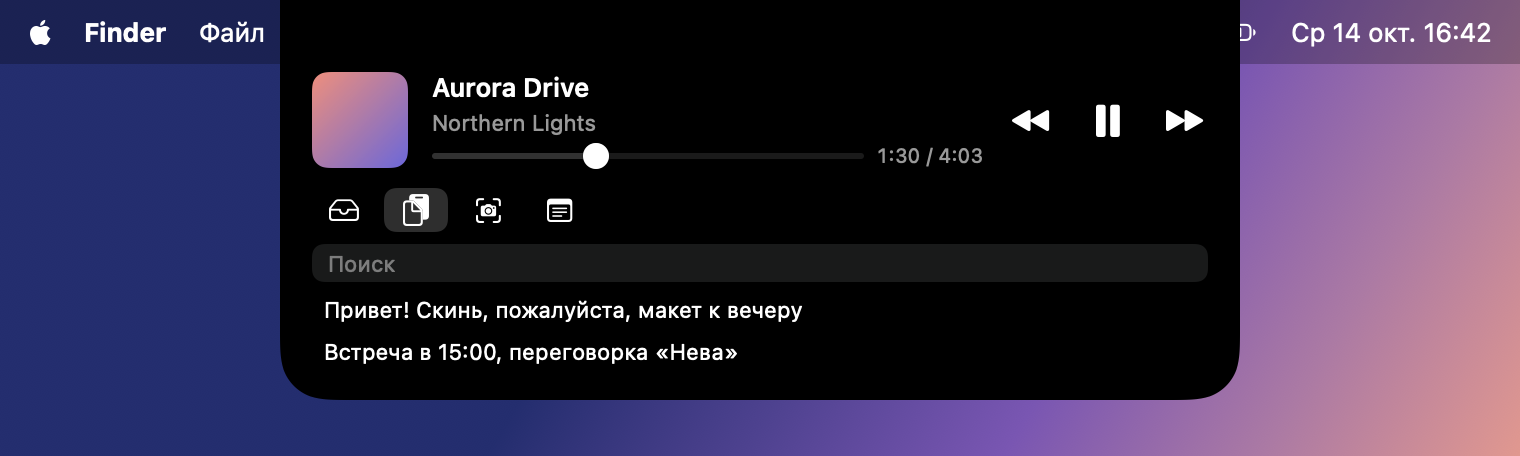
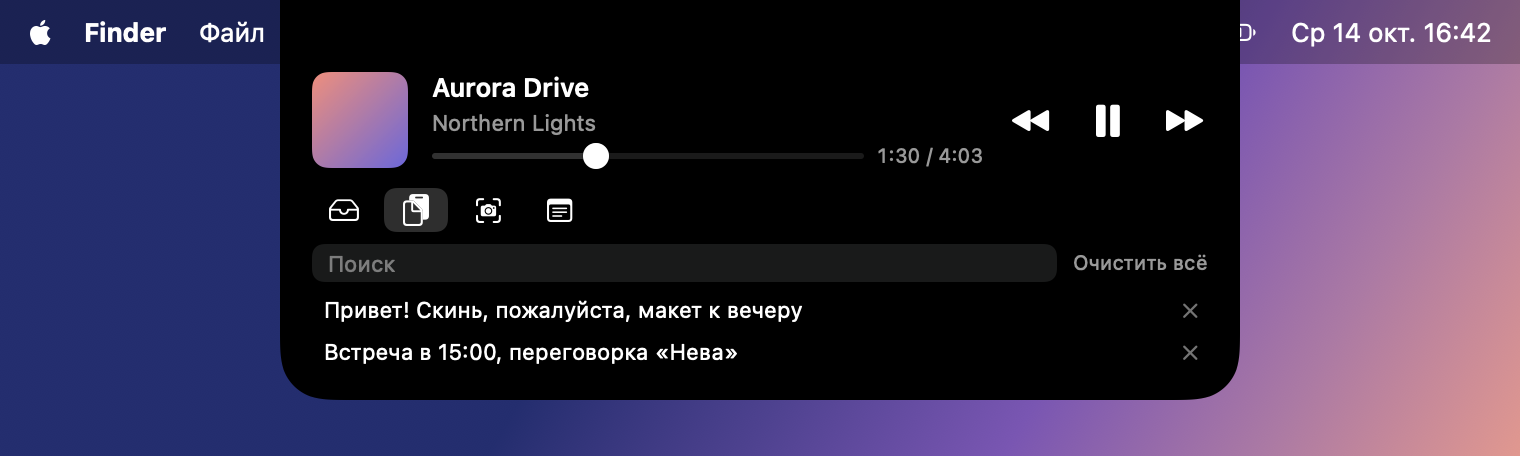
feat: delete clipboard entries and screenshots
× on a history row or a screenshot thumbnail removes it (and the PNG);
Clear all empties each list. Only Brow's history changes, the system
pasteboard is left alone.

Changed region(s): [[0.6803, 0.5219, 0.8039, 0.6447]]

diff --git a/Sources/Brow/Views/ClipboardView.swift b/Sources/Brow/Views/ClipboardView.swift
@@ -1,7 +1,7 @@
 import BrowCore
 import SwiftUI
 
-/// Searchable list of copied text; clicking a row copies it again.
+/// Searchable list of copied text; clicking a row copies it again, × removes it.
 struct ClipboardView: View {
     let model: AppModel
     @State private var query = ""
@@ -10,12 +10,20 @@ struct ClipboardView: View {
     var body: some View {
         let results = model.clipboard.search(query)
         VStack(spacing: 4) {
-            TextField("Поиск", text: $query)
-                .textFieldStyle(.plain)
-                .font(.system(size: 11))
-                .padding(.horizontal, 8)
-                .padding(.vertical, 3)
-                .background(.white.opacity(0.1), in: RoundedRectangle(cornerRadius: 6))
+            HStack(spacing: 8) {
+                TextField("Поиск", text: $query)
+                    .textFieldStyle(.plain)
+                    .font(.system(size: 11))
+                    .padding(.horizontal, 8)
+                    .padding(.vertical, 3)
+                    .background(.white.opacity(0.1), in: RoundedRectangle(cornerRadius: 6))
+                if !model.clipboard.entries.isEmpty {
+                    Button("Очистить всё") { model.clearHistory() }
+                        .buttonStyle(.plain)
+                        .font(.system(size: 10))
+                        .foregroundStyle(.white.opacity(0.6))
+                }
+            }
             if results.isEmpty {
                 Text(query.isEmpty ? "История пуста" : "Ничего не найдено")
                     .font(.system(size: 11))
@@ -34,6 +42,20 @@ struct ClipboardView: View {
     }
 
     private func row(_ entry: ClipboardEntry) -> some View {
+        HStack(spacing: 4) {
+            copyButton(entry)
+            Button { model.removeFromHistory(entry.id) } label: {
+                Image(systemName: "xmark")
+                    .font(.system(size: 9, weight: .semibold))
+                    .foregroundStyle(.white.opacity(0.45))
+                    .frame(width: 18, height: 18)
+                    .contentShape(Rectangle())
+            }
+            .buttonStyle(.plain)
+        }
+    }
+
+    private func copyButton(_ entry: ClipboardEntry) -> some View {
         Button {
             model.copyFromHistory(entry)
             copiedId = entry.id

diff --git a/Sources/Brow/Views/ScreenshotsView.swift b/Sources/Brow/Views/ScreenshotsView.swift
@@ -1,7 +1,8 @@
 import BrowCore
 import SwiftUI
 
-/// The last screenshots taken to the clipboard: click copies one back, drag gives a PNG file.
+/// The last screenshots taken to the clipboard: click copies one back, drag gives
+/// a PNG file, × removes it.
 struct ScreenshotsView: View {
     let model: AppModel
     @State private var copiedId: UUID?
@@ -14,11 +15,15 @@ struct ScreenshotsView: View {
                 .multilineTextAlignment(.center)
                 .frame(maxWidth: .infinity, maxHeight: .infinity)
         } else {
-            HStack(spacing: 8) {
+            HStack(alignment: .top, spacing: 6) {
                 ForEach(model.screenshots.entries) { entry in
                     thumbnail(entry)
                 }
                 Spacer(minLength: 0)
+                Button("Очистить всё") { model.clearScreenshots() }
+                    .buttonStyle(.plain)
+                    .font(.system(size: 10))
+                    .foregroundStyle(.white.opacity(0.6))
             }
         }
     }
@@ -39,7 +44,7 @@ struct ScreenshotsView: View {
                     .foregroundStyle(.green)
             }
         }
-        .frame(width: 80, height: 56)
+        .frame(width: 68, height: 50)
         .clipShape(RoundedRectangle(cornerRadius: 6))
         .overlay(RoundedRectangle(cornerRadius: 6).strokeBorder(.white.opacity(0.15)))
         .contentShape(Rectangle())
@@ -53,6 +58,15 @@ struct ScreenshotsView: View {
         }
         .onDrag {
             model.exportScreenshot(entry).flatMap { NSItemProvider(contentsOf: $0) } ?? NSItemProvider()
+        }
+        .overlay(alignment: .topTrailing) {
+            Button { model.removeScreenshot(entry.id) } label: {
+                Image(systemName: "xmark.circle.fill")
+                    .font(.system(size: 13))
+                    .foregroundStyle(.white, .black.opacity(0.6))
+            }
+            .buttonStyle(.plain)
+            .padding(3)
         }
     }
 }

diff --git a/Sources/Brow/AppModel.swift b/Sources/Brow/AppModel.swift
@@ -119,6 +119,32 @@ final class AppModel {
         clipboardWatcher?.copy(entry.text)
     }
 
+    /// Removes entries from Brow's history only; the system pasteboard is left alone.
+    func removeFromHistory(_ id: UUID) {
+        clipboard.remove(id: id)
+        persist(clipboard, to: clipboardStore)
+    }
+
+    func clearHistory() {
+        clipboard.removeAll()
+        persist(clipboard, to: clipboardStore)
+    }
+
+    func removeScreenshot(_ id: UUID) {
+        if let removed = screenshots.remove(id: id) { deleteScreenshotFile(removed) }
+        persist(screenshots, to: screenshotsStore)
+    }
+
+    func clearScreenshots() {
+        screenshots.removeAll().forEach(deleteScreenshotFile)
+        persist(screenshots, to: screenshotsStore)
+    }
+
+    private func deleteScreenshotFile(_ entry: ScreenshotEntry) {
+        try? FileManager.default.removeItem(at: entry.url(in: screenshotsDirectory))
+        thumbnails[entry.id] = nil
+    }
+
     func screenshotTaken(_ png: Data) {
         let entry = ScreenshotEntry()
         do {
@@ -128,10 +154,7 @@ final class AppModel {
             logger.error("Saving screenshot failed: \(error.localizedDescription, privacy: .public)")
             return
         }
-        for evicted in screenshots.add(entry) {
-            try? FileManager.default.removeItem(at: evicted.url(in: screenshotsDirectory))
-            thumbnails[evicted.id] = nil
-        }
+        screenshots.add(entry).forEach(deleteScreenshotFile)
         persist(screenshots, to: screenshotsStore)
     }
 

diff --git a/Sources/BrowCore/ScreenshotHistory.swift b/Sources/BrowCore/ScreenshotHistory.swift
@@ -35,6 +35,20 @@ public struct ScreenshotHistory: Codable, Equatable, Sendable {
         return evicted
     }
 
+    /// Returns the removed entry, so the caller can delete its file.
+    @discardableResult
+    public mutating func remove(id: UUID) -> ScreenshotEntry? {
+        guard let index = entries.firstIndex(where: { $0.id == id }) else { return nil }
+        return entries.remove(at: index)
+    }
+
+    /// Returns all removed entries, so the caller can delete their files.
+    @discardableResult
+    public mutating func removeAll() -> [ScreenshotEntry] {
+        defer { entries.removeAll() }
+        return entries
+    }
+
     public mutating func removeMissing(in directory: URL) {
         entries.removeAll { !FileManager.default.fileExists(atPath: $0.url(in: directory).path) }
     }

diff --git a/Tests/BrowCoreTests/ScreenshotHistoryTests.swift b/Tests/BrowCoreTests/ScreenshotHistoryTests.swift
@@ -38,4 +38,19 @@ final class ScreenshotHistoryTests: XCTestCase {
         XCTAssertEqual(h.entries, [kept])
         XCTAssertEqual(kept.url(in: dir).lastPathComponent, "\(kept.id.uuidString).png")
     }
+
+    func testRemoveByIdReturnsEntry() {
+        let a = ScreenshotEntry(), b = ScreenshotEntry()
+        h.add(a); h.add(b)
+        XCTAssertEqual(h.remove(id: a.id), a)
+        XCTAssertEqual(h.entries, [b])
+        XCTAssertNil(h.remove(id: a.id))
+    }
+
+    func testRemoveAllReturnsEverything() {
+        let a = ScreenshotEntry(), b = ScreenshotEntry()
+        h.add(a); h.add(b)
+        XCTAssertEqual(h.removeAll(), [b, a])
+        XCTAssertTrue(h.entries.isEmpty)
+    }
 }

diff --git a/Tests/BrowCoreTests/ClipboardHistoryTests.swift b/Tests/BrowCoreTests/ClipboardHistoryTests.swift
@@ -44,4 +44,16 @@ final class ClipboardHistoryTests: XCTestCase {
         XCTAssertEqual(h.entries[0].text.count, 20_000)
         XCTAssertEqual(h.entries[0].preview.count, 10_000)
     }
+
+    func testRemoveById() {
+        h.add("a"); h.add("b"); h.add("c")
+        h.remove(id: h.entries[1].id)
+        XCTAssertEqual(h.entries.map(\.text), ["c", "a"])
+    }
+
+    func testRemoveAll() {
+        h.add("a"); h.add("b")
+        h.removeAll()
+        XCTAssertTrue(h.entries.isEmpty)
+    }
 }

diff --git a/Sources/BrowCore/ClipboardHistory.swift b/Sources/BrowCore/ClipboardHistory.swift
@@ -40,6 +40,14 @@ public struct ClipboardHistory: Codable, Equatable, Sendable {
         return true
     }
 
+    public mutating func remove(id: UUID) {
+        entries.removeAll { $0.id == id }
+    }
+
+    public mutating func removeAll() {
+        entries.removeAll()
+    }
+
     public func search(_ query: String) -> [ClipboardEntry] {
         guard !query.isEmpty else { return entries }
         return entries.filter { $0.text.localizedCaseInsensitiveContains(query) }

diff --git a/README.md b/README.md
@@ -30,8 +30,8 @@ Brow превращает вырез («чёлку») MacBook в мини-пан
 
 - **Музыка:** название, обложка и прогресс того, что сейчас играет, в любом плеере, включая видео в браузере. Есть play/pause, предыдущий/следующий трек и перемотка ползунком.
 - **Полка:** перетащите файл или папку к вырезу, и они лягут на полку. Потом вытащите их оттуда в любое место. На полке хранится ссылка на файл, сам файл не копируется. Если оригинал удалить или отправить в Корзину, он исчезнет с полки.
-- **Буфер:** последние 50 скопированных текстов с поиском. Клик по записи снова кладёт её в буфер обмена. Тексты из менеджеров паролей не сохраняются. Перетащите выделенный текст к вырезу, и он тоже попадёт в историю.
-- **Скриншоты:** сделайте снимок через ⌘⇧5 с параметром «Сохранить в → Буфер обмена», и он появится на отдельной вкладке. Хранятся последние 5, более старые удаляются. Клик снова кладёт скриншот в буфер обмена, перетаскивание отдаёт его PNG-файлом в Finder, чат или письмо. Картинки, скопированные из браузера и других программ, сюда не попадают.
+- **Буфер:** последние 50 скопированных текстов с поиском. Клик по записи снова кладёт её в буфер обмена, «×» убирает запись из истории, «Очистить всё» убирает все. Тексты из менеджеров паролей не сохраняются. Перетащите выделенный текст к вырезу, и он тоже попадёт в историю.
+- **Скриншоты:** сделайте снимок через ⌘⇧5 с параметром «Сохранить в → Буфер обмена», и он появится на отдельной вкладке. Хранятся последние 5, более старые удаляются. Клик снова кладёт скриншот в буфер обмена, перетаскивание отдаёт его PNG-файлом в Finder, чат или письмо. «×» на миниатюре удаляет скриншот, «Очистить всё» удаляет все. Картинки, скопированные из браузера и других программ, сюда не попадают.
 - **Заметка:** один блокнот с автосохранением. Пока вы печатаете, панель не сворачивается.
 
 ## Установка
@@ -102,7 +102,10 @@ Brow сохраняет скриншоты, которые вы делаете *
 
 Что с ним можно делать:
 - **клик по миниатюре** снова кладёт скриншот в буфер обмена, дальше ⌘V в любой чат или документ;
-- **перетаскивание миниатюры** в Finder, Telegram или письмо отдаёт его PNG-файлом «Снимок экрана <дата> в <время>.png».
+- **перетаскивание миниатюры** в Finder, Telegram или письмо отдаёт его PNG-файлом «Снимок экрана <дата> в <время>.png»;
+- **«×» в углу миниатюры** удаляет скриншот из Brow, **«Очистить всё»** удаляет все сразу.
+
+Удаление касается только Brow: если скриншот или текст сейчас лежит в буфере обмена, ⌘V по-прежнему его вставит.
 
 Хранятся последние 5 скриншотов, шестой вытесняет самый старый. Они сохраняются между перезапусками. Картинки, скопированные из браузера или других программ, на эту вкладку не попадают, только снимки экрана.
 

diff --git a/docs/superpowers/specs/2026-10-14-brow-design.md b/docs/superpowers/specs/2026-10-14-brow-design.md
@@ -49,6 +49,10 @@
 - Хранятся последние 5, новые первыми; вытесненный удаляется с диска. Файлы — `~/Library/Application Support/Brow/Screenshots/<id>.png`, список — `screenshots.json`; записи без файла и файлы без записи убираются при запуске.
 - Клик по миниатюре кладёт PNG обратно в буфер (без дубля); перетаскивание отдаёт PNG-файл «Снимок экрана <дата> в <время>.png».
 - Панель при новом скриншоте не раскрывается.
+- «×» на миниатюре удаляет скриншот (запись и PNG), «Очистить всё» — все (добавлено 2026-10-15).
+
+### Удаление из истории текста (добавлено 2026-10-15)
+- «×» в конце строки удаляет запись, «Очистить всё» рядом с поиском — все. Системный буфер обмена не меняется.
 
 ### Быстрые заметки
 - Один блокнот — одно текстовое поле, автосохранение с задержкой ~0,5 с.
